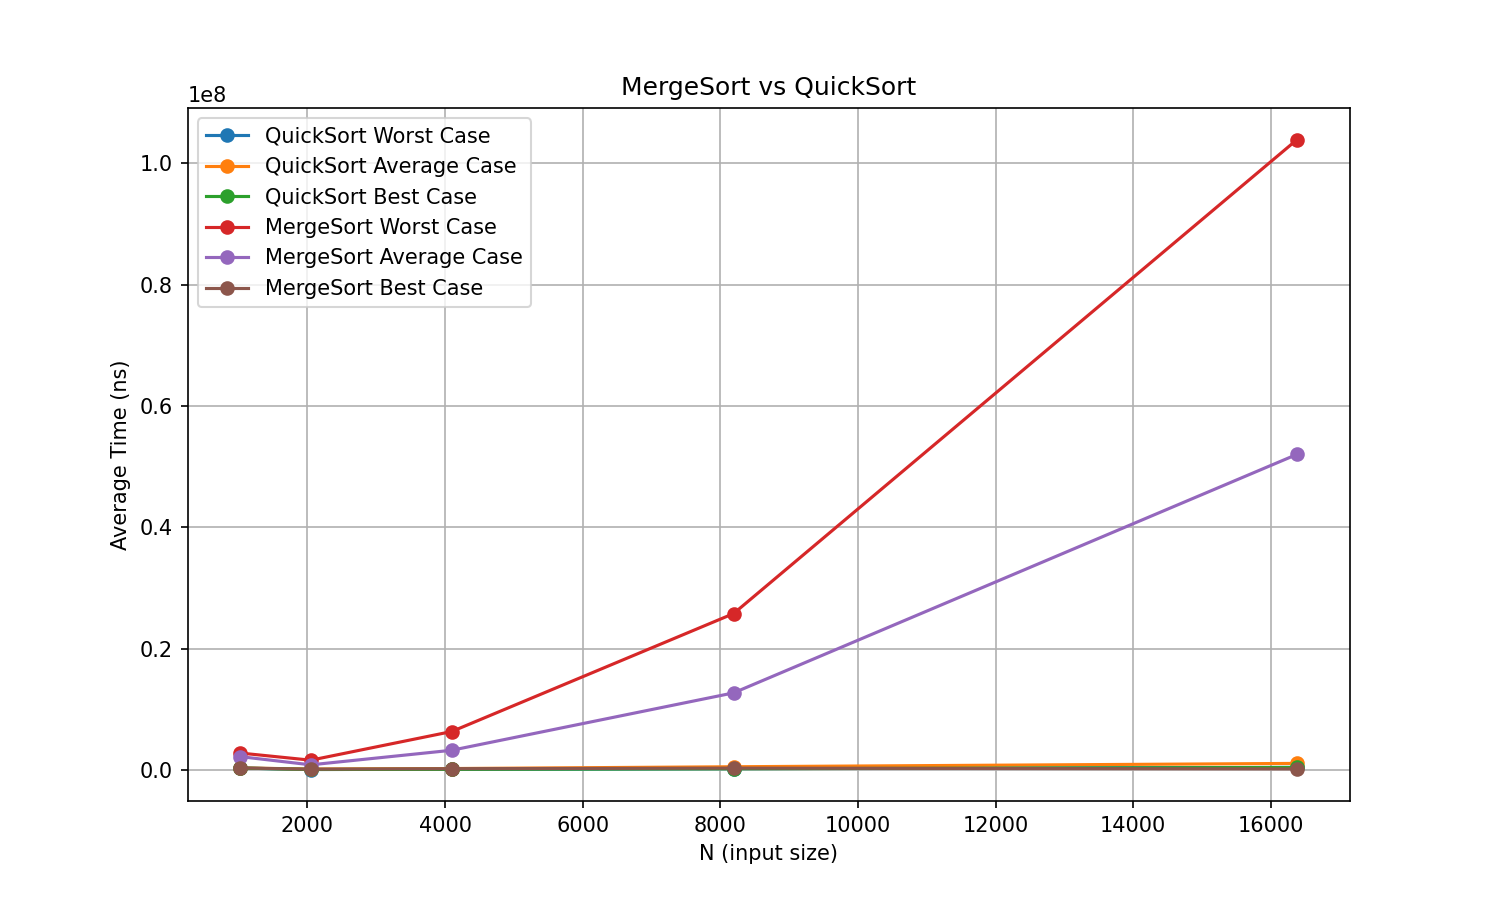
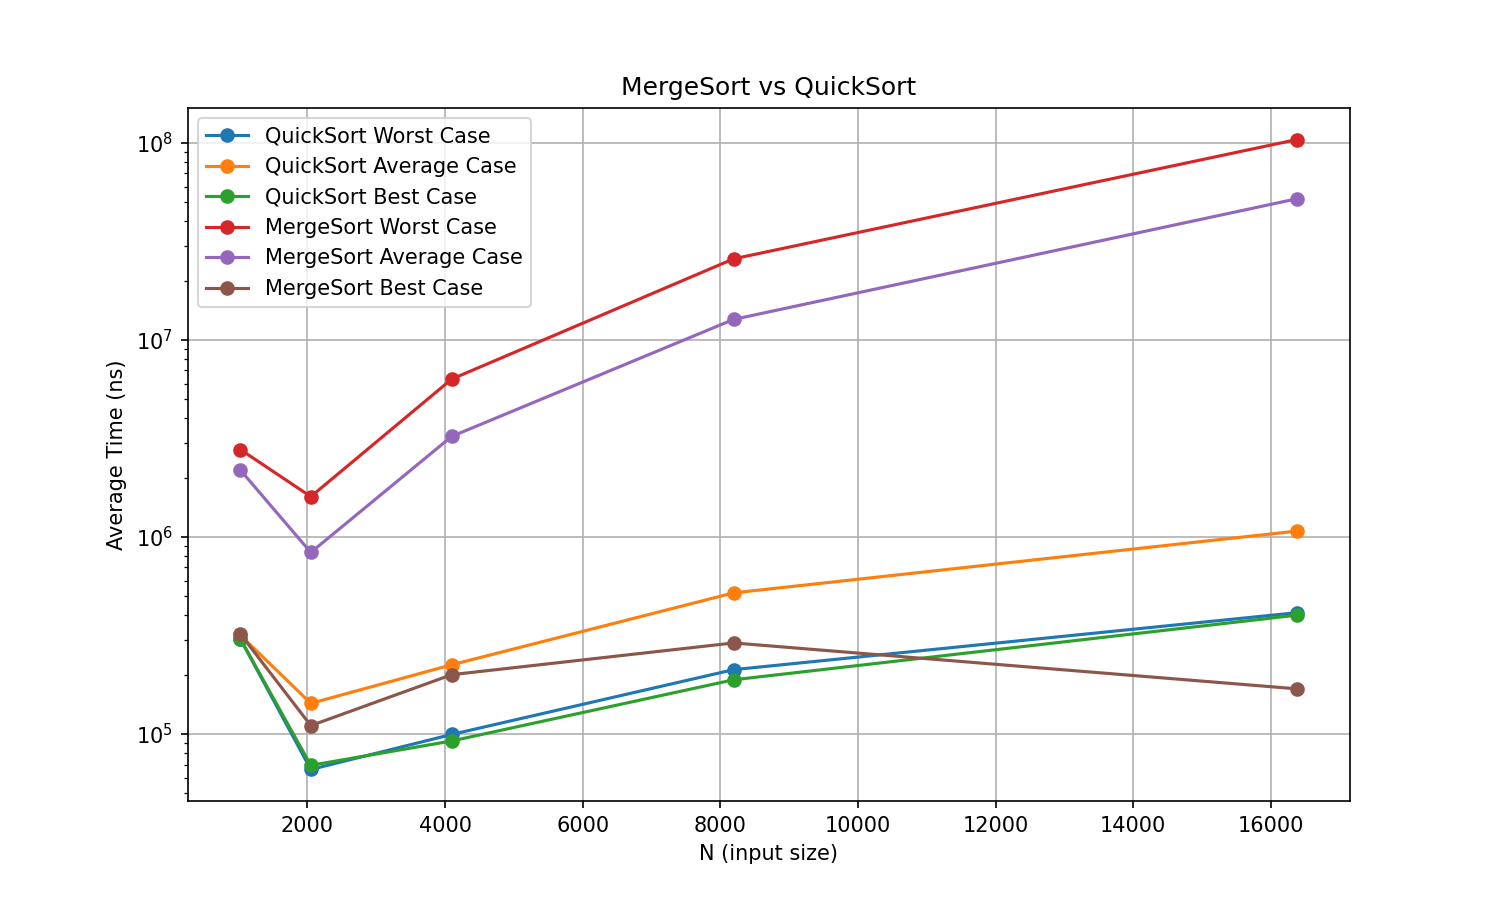
completed assignments 3 and 4

diff --git a/CS6012/Day 4/SortedArraySet/src/assignment03/BinarySearchSetTiming.java b/CS6012/Day 4/SortedArraySet/src/assignment03/BinarySearchSetTiming.java
@@ -7,8 +7,6 @@ import java.util.*;
 
 public class BinarySearchSetTiming extends TimerTemplate {
     BinarySearchSet<Integer> set = new BinarySearchSet<>();
-//    List<Integer> list = new ArrayList<>();
-//    List<Integer> list2 = new ArrayList<>();
 
     public BinarySearchSetTiming(int[] problemSizes, int timesToLoop) {
         super(problemSizes, timesToLoop);
@@ -34,9 +32,9 @@ public class BinarySearchSetTiming extends TimerTemplate {
 
     public static void main() throws IOException {
         System.out.println("running");
-        int[] problemSize = new int[11];
+        int[] problemSize = new int[5];
         int index = 0;
-        for (int i = 4; i <= 14; i++) {
+        for (int i = 10; i < 15; i++) {
             problemSize[index] = (int) (Math.pow(2, i));
             index++;
         }
@@ -50,12 +48,11 @@ public class BinarySearchSetTiming extends TimerTemplate {
 
 
         try (BufferedWriter writer = new BufferedWriter(new FileWriter(fileName))) {
-            writer.write("Time(ns)" + COMMA_DELIMITER +  "N" + NEW_LINE_SEPARATOR);
+            writer.write("N" + COMMA_DELIMITER +  "Time(ns)" + NEW_LINE_SEPARATOR);
             for (var result : results) {
                 writer.write(result.n() + COMMA_DELIMITER + result.avgNanoSecs() + NEW_LINE_SEPARATOR);
             }
             writer.flush();
-            writer.close();
         }
     }
 }

diff --git a/CS6012/Day 4/SortedArraySet/plot_timing.py b/CS6012/Day 4/SortedArraySet/plot_timing.py
@@ -22,6 +22,7 @@ def main():
         plt.xlabel(headers[0])
         plt.ylabel("Time(ns)") #change me
         plt.title("Amount of Time Searching for a Value Contained in an Array of Size N") #change me
+        plt.yscale('log')
         plt.legend(headers[1:]) # label the lines
         plt.savefig('Value_Contained.png') #change me
 

diff --git a/CS6012/Day 8/MergeSortandQuickSort/quicksort_plot_timing.py b/CS6012/Day 8/MergeSortandQuickSort/quicksort_plot_timing.py
@@ -39,6 +39,7 @@ def main():
 
     plt.xlabel("N (input size)")
     plt.ylabel("Average Time (ns)")
+    plt.yscale('log')
     plt.title("MergeSort vs QuickSort")
 
     plt.legend()
